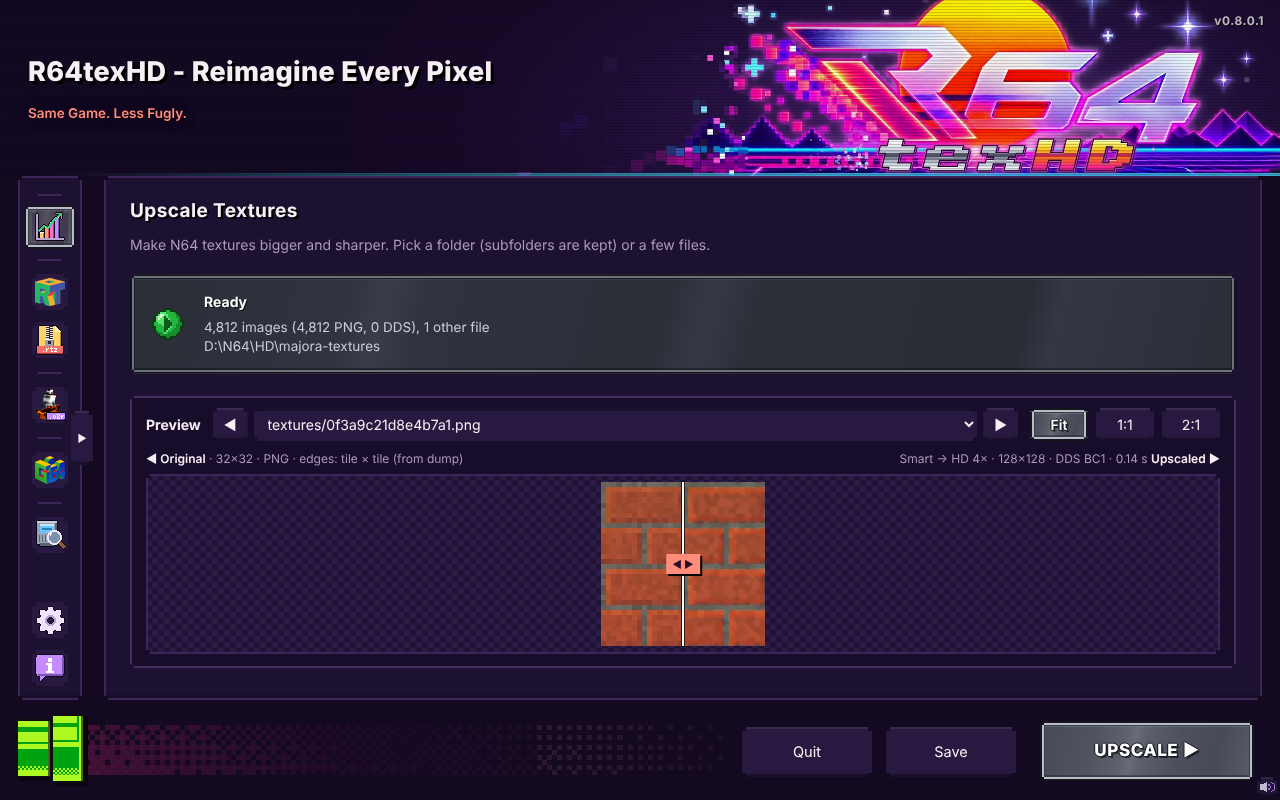
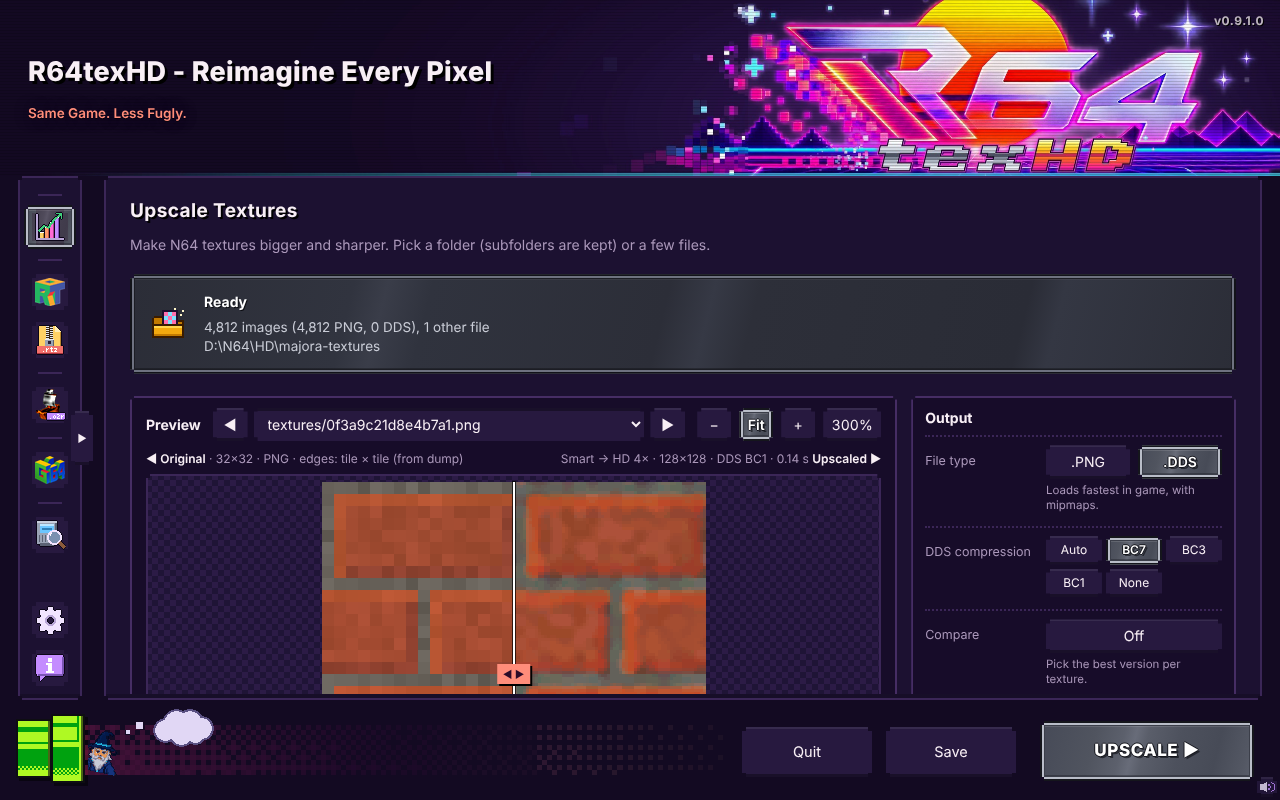
docs: README for v0.9 (what's new, Upscale page, building + releasing), title image with catchphrase, new Upscale screenshots + Compare grid shot
Claude-Session: https://claude.ai/code/session_01Rvrfis6HfTjpFvHdwAu6fj

diff --git a/build/ui-preview/mock-htk.js b/build/ui-preview/mock-htk.js
@@ -127,13 +127,14 @@
     },
     romInfo: async (file) => (window.__ROMS && window.__ROMS.info[file]) || { error: 'Not in the preview data' },
     thumbnail: async () => 'splash.png',
-    previewList: async () => ({ items: [{ src: 'a', rel: 'textures/0f3a9c21d8e4b7a1.png' }, { src: 'b', rel: 'textures/1b77e0a4c2d39f05.png' }], total: 4812 }),
-    preview: async () => {
+    previewList: async () => ({ items: [{ src: 'a', rel: 'textures/0f3a9c21d8e4b7a1.png', key: '0f3a9c21d8e4b7a1' }, { src: 'b', rel: 'textures/1b77e0a4c2d39f05.png', key: '1b77e0a4c2d39f05' }], total: 4812 }),
+    preview: async (req = {}) => {
       // Real upscale result from make-preview-data.js when present; a quick stand-in otherwise.
       const P = window.__PREVIEW;
       if (P) {
         const dec = (x) => ({ width: x.width, height: x.height, data: Uint8Array.from(atob(x.data), (c) => c.charCodeAt(0)) });
-        return { orig: dec(P.orig), up: dec(P.up), encoded: P.encoded, ms: 140, edges: 'tile × tile (from dump)', route: 'HD 4×' };
+        const up = req.pick && P.picks && P.picks[req.pick] ? P.picks[req.pick] : P.up;   // a Compare grid cell
+        return { orig: dec(P.orig), up: dec(up), encoded: P.encoded, ms: { mmpx: 90, pixel: 20, 'ai:realesrgan-x4plus': 1830 }[req.pick] || 140, edges: 'tile × tile (from dump)', route: 'HD 4×' };
       }
       const o = brick(32, 32); return { orig: o, up: smoothUp(o, 4), encoded: 'DDS BC7', ms: 180, edges: 'tile × tile (from dump)', route: 'HD 4×' };
     },

diff --git a/build/ui-preview/make-preview-data.js b/build/ui-preview/make-preview-data.js
@@ -22,6 +22,10 @@ const orig = { width: W, height: H, data: d };
 const up = upscale(orig, { size: 4, method: 'standard', sharpness: 'normal', edges: ['wrap', 'wrap'], hardAlpha: true, maxSize: 4096 });
 const shown = dds.decodeDDS(dds.encodeDDS(up, 'auto', { mipmaps: false }));
 const b64 = (img) => Buffer.from(img.data).toString('base64');
+const pack = (img) => ({ width: img.width, height: img.height, data: b64(img) });
+// Compare grid cells (pick id -> result); the AI cell is a Smooth stand-in, there is no Real-ESRGAN here.
+const opt = { size: 4, edges: ['wrap', 'wrap'], hardAlpha: true, maxSize: 4096 };
+const picks = { hd: shown, mmpx: upscale(orig, { ...opt, method: 'mmpx' }), pixel: upscale(orig, { ...opt, method: 'pixel' }), 'ai:realesrgan-x4plus': upscale(orig, { ...opt, method: 'smooth' }) };
 fs.writeFileSync(path.join(__dirname, 'preview-data.js'),
-  `window.__PREVIEW = ${JSON.stringify({ orig: { width: W, height: H, data: b64(orig) }, up: { width: shown.width, height: shown.height, data: b64(shown) }, encoded: 'DDS BC1' })};\n`);
+  `window.__PREVIEW = ${JSON.stringify({ orig: pack(orig), up: pack(shown), encoded: 'DDS BC1', picks: Object.fromEntries(Object.entries(picks).map(([k, v]) => [k, pack(v)])) })};\n`);
 console.log('preview-data.js written', up.width + 'x' + up.height);

diff --git a/build/ui-preview/docs-shots.py b/build/ui-preview/docs-shots.py
@@ -29,8 +29,10 @@ SHOTS = [
     ('welcome', 'page=welcome', [], 'HD Texture Packs for Games That Refuse to Die.'),
     ('first-launch-psychedelic', 'setup', ['sleep:3700'], 'HD Texture Packs for Games That Refuse to Die.'),
     ('first-launch-tools', 'setup&notools', ['sleep:3700'], 'HD Texture Packs for Games That Refuse to Die.'),
-    ('upscale', 'page=upscale', ['wait', 'js:document.querySelector("#preview").style.position="static"', 'scroll:330', 'wait'], 'Making Muddy Textures Eat Their Vegetables.'),
-    ('upscale-compare', 'page=upscale', ['wait', 'js:setSplit(.42)'], 'Making Muddy Textures Eat Their Vegetables.'),
+    # the input isn't remembered between starts, so the shots choose one first
+    ('upscale', 'page=upscale', ['js:cfg.upscale.inputs=["D:\\\\N64\\\\dump\\\\textures"];render()', 'wait', 'scroll:150', 'wait'], 'Making Muddy Textures Eat Their Vegetables.'),
+    ('upscale-compare', 'page=upscale', ['js:cfg.upscale.inputs=["D:\\\\N64\\\\dump\\\\textures"];render()', 'wait', 'js:setSplit(.42)'], 'Making Muddy Textures Eat Their Vegetables.'),
+    ('upscale-grid', 'page=upscale', ['js:cfg.upscale.inputs=["D:\\\\N64\\\\dump\\\\textures"];render()', 'wait', 'js:cfg.compareSet=["hd","mmpx","pixel","ai:realesrgan-x4plus"]', 'click:[data-pvcompare]', 'sleep:1500', 'click:[data-pvuse="mmpx"]', 'sleep:600', 'scroll:215', 'wait'], 'Making Muddy Textures Eat Their Vegetables.'),
     ('convert-rt64-dump', 'page=convert', ['scroll:250'], 'Expansion Pak for Your Eyeballs.'),
     ('pack-recomp-info', 'page=pack&mode=pack', ['scroll:430'], 'More Pixels Than Nintendo Ever Intended.'),
     ('check-a-pack', 'page=pack&mode=check', ['run'], 'Rendering Nostalgia. Destroying Blur.'),
@@ -41,7 +43,7 @@ SHOTS = [
     ('settings', 'page=settings&notools', ['sleep:3700', 'js:closeModal()', 'wait'], 'Same Game. Less Fugly.'),
     ('settings-wizard', 'page=settings', ['wait', 'js:document.querySelector("#page").scrollTop = document.querySelector("#page .sbox:nth-of-type(4)").offsetTop + 200'], 'Rendering Nostalgia. Destroying Blur.'),
     ('settings-sound', 'page=settings', ['wait', 'js:document.querySelector("#page").scrollTop = document.querySelector("#page .sbox:nth-of-type(5)").offsetTop - 16'], 'Rendering Nostalgia. Destroying Blur.'),
-    ('menu-folded', 'page=upscale', ['wait', 'click:#nav-fold', 'sleep:400'], 'Same Game. Less Fugly.'),
+    ('menu-folded', 'page=upscale', ['js:cfg.upscale.inputs=["D:\\\\N64\\\\dump\\\\textures"];render()', 'wait', 'click:#nav-fold', 'sleep:400'], 'Same Game. Less Fugly.'),
 ]
 FOOTER = 'wizard-footer'           # animated: a fight in the footer while a job runs
 

diff --git a/README.md b/README.md
@@ -1,27 +1,32 @@
 # R64texHD - Reimagine Every Pixel
 
-**HD textures for N64 games** · current version **v0.8.0.1** · Windows x64 · GPL-2.0-or-later
+**HD textures for N64 games** · current version **v0.9.1.0** · Windows x64 · GPL-2.0-or-later
 
 R64texHD is an all-in-one tool for N64 HD texture packs. It gets textures out of RT64 dumps and Ship
 port archives, upscales them, and packs them back up for RT64 emulators, recomps and Ship ports. It
 also brings classic Rice / GLideN64 packs along, and has a quick ROM explorer for your N64 ROMs.
 
-![R64texHD](docs/r64texhd-title.png)
+![R64texHD](docs/r64texhd-title-phrase.png)
 
-**[Download](../../releases)** · [What's new](#whats-new-in-v0801) · [Features](#features-at-a-glance) ·
+**[Download](../../releases)** · [What's new](#whats-new-in-v09) · [Features](#features-at-a-glance) ·
 [The pages](#the-pages) · [The wizard of R64](#the-wizard-of-r64) · [Download and run](#download-and-run) ·
 [Building](#building-from-source) · [Changelog](CHANGELOG.md)
 
-## What's new in v0.8.0.1
+## What's new in v0.9
 
-- **Upscaler presets**: Smart (the new default), Faithful 2×, HD 4×, Ultra AI 4×, Pixel-perfect, and your own.
-- **Smart mode** picks a method per texture: pixel-perfect for tiny and text textures, HD or AI for the rest.
-- **Estimate before you run**: disk size, video memory in game and time on your PC.
-- **Before / after preview**: one image, drag the line between the original and the result.
-- **The wizard of R64**: the footer is now the progress bar, with animated scenes, fights and a bonus stage.
-- **Sound**: background music, sound effects, your own tracks and clips, and a mute button.
-- **Tidier Settings**: a box per area, a graphics card check for the AI upscaler, and a collapsible menu.
-- **Smaller download**: 222 MB → 163 MB. The fights and trips download once on first run.
+- **ONNX engine** (v0.9.1.0, optional download): a second AI engine with DirectML (any DirectX 12 graphics card,
+  the CPU otherwise) and the two strongest game-texture models, **TextureDAT2** and **RGT-S dither** (CC BY 4.0).
+- **Compare**: 2–4 versions of a texture side by side (HD, MMPX, Pixel-perfect, every AI model); **Use this**
+  remembers the pick for that texture and the run makes that version.
+- **Your own AI models**: add any 4× Real-ESRGAN ncnn model in Settings; it joins the AI choices and Compare.
+- **Texture models** for Real-ESRGAN: HDCube, GameAI 2.0 and Pixel (free to share), one optional download.
+- **Smart mode v2**: MMPX for true pixel art, GameAI / Pixel model for detailed textures and sprites, dithered
+  textures softened first.
+- **Cleaner results**: cut-out alpha kept hard, AI colour fix, seam-free tiny tiling textures, Supersample, a
+  half-size copy (4K and HD packs in one run), BC7 Best quality and mipmaps that follow each texture's tiling.
+- **Faster AI**: Real-ESRGAN starts once per job instead of once per 32 textures.
+- **Next release**: a new Upscale page with the preview on the left (resizable) and an **Output** panel on the
+  right: file type .PNG / .DDS, DDS compression, Compare, Open folder and Reset Upscaler.
 
 Full list: [CHANGELOG.md](CHANGELOG.md).
 
@@ -31,7 +36,7 @@ Click a picture for the full-size screenshot.
 
 <table>
 <tr>
-<td width="33%" valign="top"><a href="docs/screenshots/upscale.png"><img src="docs/screenshots/thumbs/upscale.jpg" alt="Upscale presets"></a><br><b>1a) Upscale presets</b><br>Smart, Faithful, HD, Ultra AI, Pixel-perfect, with an estimate.</td>
+<td width="33%" valign="top"><a href="docs/screenshots/upscale.png"><img src="docs/screenshots/thumbs/upscale.jpg" alt="Upscale preview and Output panel"></a><br><b>1a) Upscale</b><br>Live preview with the Output panel: file type, DDS, Compare, reset.</td>
 <td width="33%" valign="top"><a href="docs/screenshots/upscale-compare.png"><img src="docs/screenshots/thumbs/upscale-compare.jpg" alt="Before and after"></a><br><b>1b) Before / after</b><br>Drag the line to compare the original and the result.</td>
 <td width="33%" valign="top"><a href="docs/screenshots/convert-rt64-dump.png"><img src="docs/screenshots/thumbs/convert-rt64-dump.jpg" alt="Convert RT64 Dump"></a><br><b>2) Convert RT64 Dump</b><br>RT64 dumps to PNG / DDS plus rt64.json.</td>
 </tr>
@@ -50,6 +55,10 @@ Click a picture for the full-size screenshot.
 <td valign="top"><a href="docs/screenshots/settings-sound.png"><img src="docs/screenshots/thumbs/settings-sound.jpg" alt="Sound settings"></a><br><b>Settings: Sound and music</b><br>Volumes, now playing, your own sounds.</td>
 <td valign="top"><a href="docs/screenshots/menu-folded.png"><img src="docs/screenshots/thumbs/menu-folded.jpg" alt="Folded menu"></a><br><b>Menu: Folded menu</b><br>More room for the page; icons for each section.</td>
 </tr>
+<tr>
+<td valign="top"><a href="docs/screenshots/upscale-grid.png"><img src="docs/screenshots/thumbs/upscale-grid.jpg" alt="Compare grid"></a><br><b>1c) Compare</b><br>2–4 versions side by side; pick the best per texture.</td>
+<td></td><td></td>
+</tr>
 </table>
 
 **Portable:** nothing is installed. Settings, downloaded tools, your sounds and temporary files stay in a
@@ -59,18 +68,24 @@ Click a picture for the full-size screenshot.
 
 ### 1 · Upscale Textures
 
-- A whole folder of PNG / DDS textures (subfolders kept) or picked files.
+- A whole folder of PNG / DDS textures (subfolders kept) or picked files, saved as **PNG or DDS**. The input
+  starts empty each time (grey "Normal Textures"); the output folder ("HD Upscaled Textures") is remembered.
 - **Presets**: **Smart** (default), **Faithful 2×**, **HD 4×**, **Ultra AI 4×**, **Pixel-perfect**, and
   **Save as preset** for your own. The options fold away under **Advanced options**; changing one makes it Custom.
-- **Smart** looks at every texture (size, colours, transparency): tiny, font and HUD textures go
-  pixel-perfect, big detailed ones go AI (when Real-ESRGAN is installed and the graphics card has Vulkan),
-  the rest go HD 4×. The log says what each texture got.
+- **Smart** looks at every texture (size, colours, transparency, dithering): tiny, font and HUD textures go
+  pixel-perfect or MMPX, big detailed ones go AI (GameAI with the texture models), the rest go HD 4×.
+  The log says what each texture got.
+- **Preview** on the left, half the window tall; drag the small handle under it for more or less. Before /
+  after with a draggable line, zoom with − / + or the mouse wheel, and it re-renders whenever a setting changes.
+- **Output panel** on the right: **File type** (.PNG / .DDS), **DDS compression** (Auto, BC7, BC3, BC1, None),
+  **Compare** (2–4 versions side by side, **Use this** saves the pick for that texture), **Open folder**
+  and **Reset Upscaler**.
 - **Estimate** under the presets: disk size, video memory in game, time on this PC, and Smart's split.
-- **Before / after preview** that re-renders whenever a setting changes.
-- Methods Standard, Smooth, Pixel art, AI (Real-ESRGAN); 2× to 8× or fit to 512–4096 px.
+- Methods Smart, Standard, Smooth, Pixel art, MMPX and AI: Real-ESRGAN (General, Art, HDCube, GameAI, Pixel,
+  your own models) or the ONNX engine (TextureDAT2, RGT-S dither); 1× to 16× or fit to 512–4096 px.
 - **Edges: Auto** keeps tiling floors and walls seamless using each texture's tiling from the RT64 dump.
-- Output as the same format, PNG or DDS (BC1, BC3, BC7 via texconv, uncompressed), always with mipmaps;
-  **Fences far away** keeps cut-out textures solid in the distance.
+- DDS always comes with mipmaps; **Fences far away** keeps cut-out textures solid in the distance.
+  **Supersample** and a **half-size copy** are under Advanced options.
 
 ### 2 · Convert RT64 Dump
 
@@ -195,8 +210,8 @@ Everything here can be turned off in Settings › Look and feel and Settings ›
 
 ## Download and run
 
-1. Download `R64texHD-v0.8.0.1-Windows.zip` from [Releases](../../releases).
-2. Unzip it anywhere you can write to, for example `C:\Tools\R64texHD-v0.8.0.1`.
+1. Download `R64texHD-v0.9.1.0-Windows.zip` from [Releases](../../releases).
+2. Unzip it anywhere you can write to, for example `C:\Tools\R64texHD-v0.9.1.0`.
 3. Run **R64texHD.exe**. The first launch asks about the optional helper tools and Psychedelic mode.
 
 **Updating:** unzip the new version next to the old one and copy the old `data` folder into it to keep
@@ -215,13 +230,18 @@ everything (PNG and DDS codecs, block encoders and decoders, the upscaler, `.rtz
 build/package.sh
 ```
 
-Needs `curl`, `unzip` and Python 3 with Pillow (Linux, macOS, or Windows with Git Bash / WSL). It
-downloads Electron 38.4.0 for win32-x64, sets the exe icon and version info, and makes two files to
+Needs `curl`, `git`, `npm` and Python 3 with Pillow (Linux, macOS, or Windows with Git Bash / WSL). It
+downloads Electron 38.4.0 for win32-x64, sets the exe icon and version info, and makes four files to
 attach to the release:
 
 - `dist/R64texHD-v<version>-Windows.zip`: the app, with the starter scenes;
-- `dist/R64texHD-v<version>-scenes.zip`: the fights and trips the app downloads on first run, from the
-  release tagged `v<version>` (set `SCENES_URL` to use another).
+- `dist/R64texHD-v<version>-scenes.zip`: the fights and trips the app downloads on first run;
+- `dist/R64texHD-v<version>-models.zip`: the Real-ESRGAN texture models (Settings download);
+- `dist/R64texHD-v<version>-onnx.zip`: the ONNX engine and its models (Settings download).
+
+The app downloads the three extras from the release tagged `v<version>`. **Publishing** (repo owner):
+`build\release.cmd` (or `bash build/release.sh`) brings a contributor's `handoff/v<version>` branch onto
+main, uses or builds the zips, checks them, writes the notes from CHANGELOG.md and creates the release.
 
 The version is set in one place, `app/package.json`.
 
@@ -237,9 +257,9 @@ app/
   ui/nav-icons.js    folded menu icons                         ui/pixel-icons.js  status icons
   core/              png, dds, bc, upscale, smart (Smart mode), tmem (RT64 dumps), tiling, rt64db,
                      rtz, recomp, check, o2r (Ship ports), rice + legacy (GPL), rom, scenes,
-                     gpuinfo (graphics card check), tasks + worker (parallel jobs)
+                     gpuinfo (graphics card check), tasks + worker (parallel jobs), onnx-run (ONNX engine)
   assets/            scenes (starter set), sounds, music, nav icons, N64 library and box art
-build/               package.sh; wizard/ (scene toolkit); ui-preview/ (screenshots, self-test);
+build/               package.sh, release.sh / .cmd; onnx/; wizard/ (scene toolkit); ui-preview/ (screenshots, self-test);
                      nav_icons.py; n64-library/
 tests/               automated tests
 docs/                README.txt shipped in the release, screenshots (+ thumbs)
